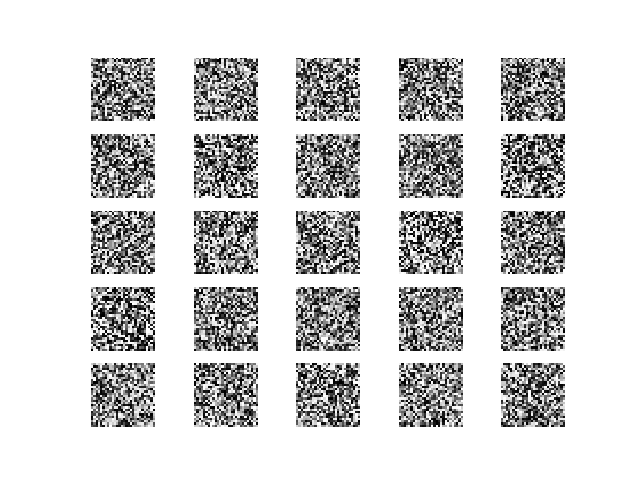
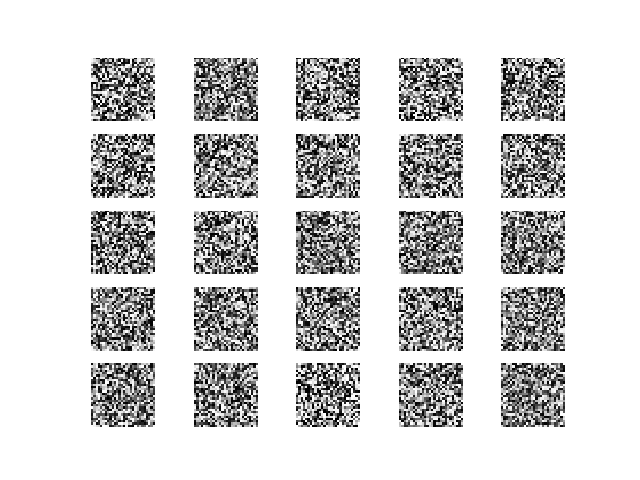
GAN test run for 300,000 epochs

diff --git a/modules/NeuralNet/NNManager.py b/modules/NeuralNet/NNManager.py
@@ -9,7 +9,7 @@ class NNManager():
 		self.status = Status("NNManager")
 		self.datapath = None
 	
-	def buildGAN(self, epochs=30000, batch_size=32, sample_interval=200):
+	def buildGAN(self, epochs=300000, batch_size=32, sample_interval=200):
 		self.status.message(1, "buildGAN(self, epochs, batch_size, sample_interval")
 		gan = GAN()
 		gan.train(epochs, batch_size, sample_interval)
